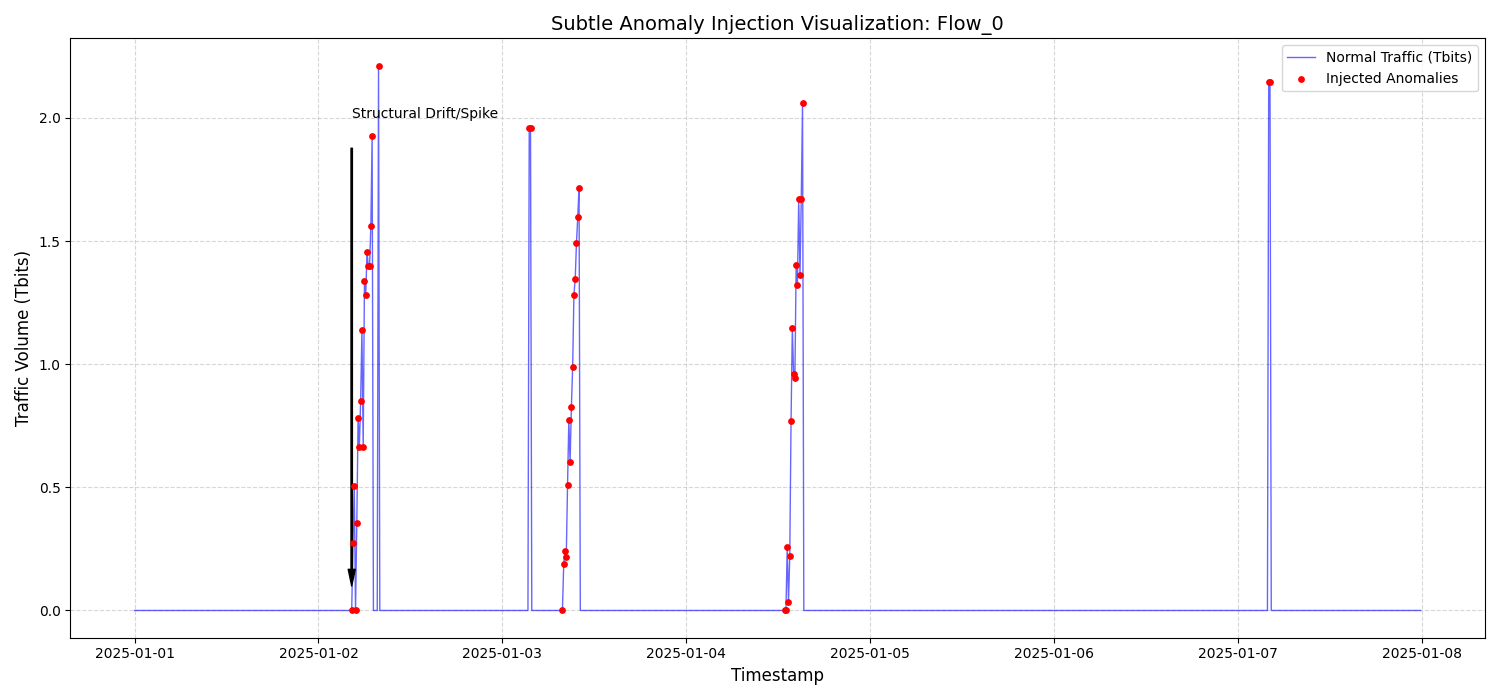
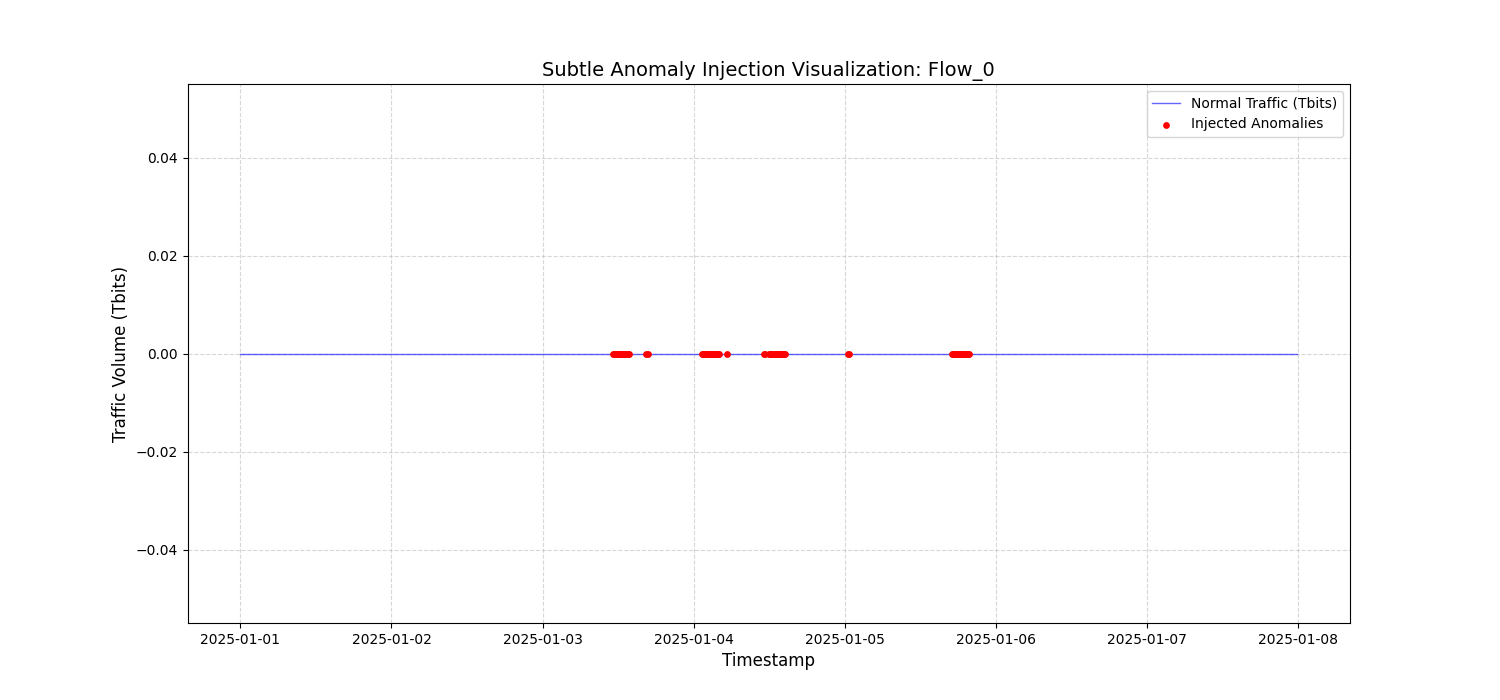
1

diff --git a/trafpy/generate4.py b/trafpy/generate4.py
@@ -10,9 +10,9 @@ START_DATE = '2025-01-01 00:00'
 END_DATE = '2025-01-08 00:00'
 FREQUENCY = '10min'
 OUTPUT_FILE = 'trafpy_master_univariate_data.csv'
-NUM_FLOWS = 5 # Increased for better statistical significance in thesis
+NUM_FLOWS = 5 
 
-def generate_subtle_thesis_dataset():
+def generate_diurnal_thesis_dataset():
     time_index = pd.date_range(START_DATE, END_DATE, freq=FREQUENCY, inclusive='left')
     all_flows = []
 
@@ -27,31 +27,37 @@ def generate_subtle_thesis_dataset():
         base_mu = 14.0
         sigma = 1.2 
 
-        for i, ts in enumerate(time_index):
+        for i, ts in enumerate(tqdm(time_index, desc=f"Flow {f_idx}")):
+            # Diurnal factor
             diurnal_scale = 0.8 * np.sin(2 * np.pi * (ts.hour - 8) / 24)
             current_mu = base_mu + diurnal_scale
 
-            flow_sizes = val_dists.gen_lognormal_dist(current_mu, sigma, 1, 1e7, 50)
-            volumes[i] = sum(flow_sizes) / 1e12
+            # Generate more flows (500) to ensure the baseline is thick/visible
+            # We also set a higher upper bound for the flow sizes
+            flow_sizes = val_dists.gen_lognormal_dist(current_mu, sigma, 1, 1e10, 500)
+            
+            # Use a divisor that keeps the result in the 10-25 Tbit range
+            volumes[i] = sum(flow_sizes) / 1e10
 
-        # 2. Inject SUBTLE Anomalies
-        for _ in range(3):
+        # 2. Inject Subtle Anomalies (Structural)
+        for _ in range(4):
             # --- SUBTLE SPIKE ---
-            # Magnitude is now 1.5 - 2.5 (similar to a natural TrafPy burst)
             s_idx = random.randint(150, len(time_index) - 20)
             dur = random.randint(1, 2)
-            volumes[s_idx : s_idx+dur] += random.uniform(1.5, 2.5) 
+            # Magnitude is now 20-40% of the current volume instead of a huge flat +7.0
+            spike_factor = random.uniform(1.2, 1.4)
+            volumes[s_idx : s_idx+dur] *= spike_factor
             is_anomaly[s_idx : s_idx+dur] = True
 
             # --- SUBTLE GRADUAL DRIFT ---
             d_idx = random.randint(150, len(time_index) - 50)
-            while any(is_anomaly[d_idx : d_idx+20]): 
+            while any(is_anomaly[d_idx : d_idx+12]): 
                 d_idx = random.randint(150, len(time_index)-50)
+            d_dur = random.randint(10, 18)
             
-            d_dur = random.randint(10, 20)
-            # Ramp max is now 1.8. Added random noise to the ramp itself.
-            ramp = np.linspace(0, 1.8, d_dur) + np.random.normal(0, 0.2, d_dur)
-            volumes[d_idx : d_idx+d_dur] += np.maximum(0, ramp) # Ensure no negative volume
+            # Gradual ramp up to 25% increase
+            drift_ramp = np.linspace(1.0, 1.25, d_dur)
+            volumes[d_idx : d_idx+d_dur] *= drift_ramp
             is_anomaly[d_idx : d_idx+d_dur] = True
 
         df = pd.DataFrame({
@@ -63,7 +69,7 @@ def generate_subtle_thesis_dataset():
         all_flows.append(df)
 
     pd.concat(all_flows, ignore_index=True).to_csv(OUTPUT_FILE, index=False)
-    print(f"Subtle dataset saved: {OUTPUT_FILE}")
+    print(f"Subtle Diurnal dataset saved: {OUTPUT_FILE}")
 
 if __name__ == "__main__":
-    generate_subtle_thesis_dataset()
+    generate_diurnal_thesis_dataset()
